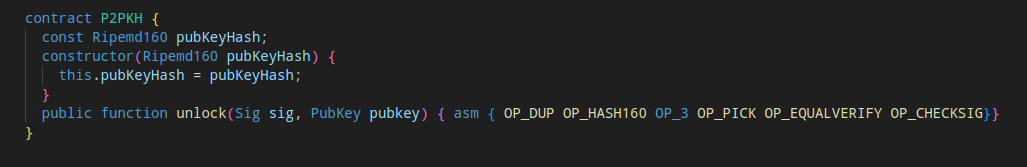
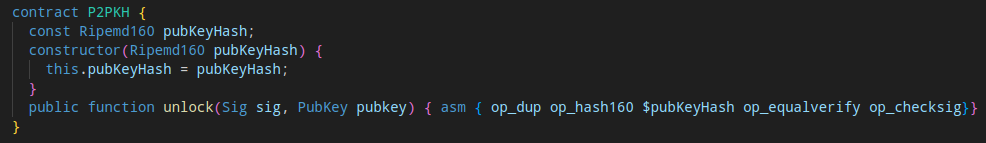
Update inline ASM page.

Changed region(s): [[0.0, 0.4196, 1.0, 0.8112], [0.0304, 0.1678, 0.3347, 0.4196], [0.0, 0.028, 0.1521, 0.1399]]

diff --git a/docs/advanced/inline-asm.md b/docs/advanced/inline-asm.md
@@ -4,25 +4,14 @@ sidebar_position: 6
 
 # How To Override Methods Compiled Code
 
-In some rare cases you might want to use low level Bitcoin script to write a smart contracts method. This is usually done for optimization of the scrip size.
+In some rare cases you might want to use low level Bitcoin script to write a smart contracts method. This is often done for optimization of the scrip size.
 To achieve this currently, you have to edit the transpiled `.scrypt` files under your projects artifacts directory.
 
-To make this easy and automated we have written a script that does this for you. 
+To make this easy and automated we have written some code, that automatically does this for you. 
 
 Suppose you have an sCrypt project with the file `src/contracts/p2pkh.ts`, which contains a regular P2PKH smart contract:
 
 ```ts
-import {
-    assert,
-    hash160,
-    method,
-    prop,
-    PubKey,
-    PubKeyHash,
-    Sig,
-    SmartContract,
-} from 'scrypt-ts'
-
 export class P2PKH extends SmartContract {
     @prop()
     readonly pubKeyHash: PubKeyHash
@@ -45,54 +34,33 @@ export class P2PKH extends SmartContract {
 
 For some reason you are not happy with the default bitcoin script produced by the sCrypt compiler and would like to substitute the `unlock` functions script with something your wrote manually.
 
-Let's create a directory named `optimizations` in the root of the project and clone the download the needed substitution script inside it:
+If you created the project using the [sCrypt CLI](https://www.npmjs.com/package/scrypt-cli) with the `--asm` option enabled, you will have a directory named `.asm/` in the root of the project.
 
-```ts
-mkdir optimizations
-cd optimizations && wget wget https://raw.githubusercontent.com/sCrypt-Inc/scrypt-ts-lib/master/optimizations/apply_asm.js
-```
-
-Now, inside the `optimizations` directory, we also create a file named `asm.json`. Inside of it we define the substitutions we want to perform:
+Now, inside the `.asm` directory, you will find a file named `asm.json`. Inside of it we can define the substitutions we want to perform:
 
 ```json
 {
-  "files": [
-    {
-      "path": "artifacts/src/contracts/p2pkh.scrypt",
-      "substitutions": [
-        {
-          "function": "unlock",
-          "asm": "OP_DUP OP_HASH160 OP_3 OP_PICK OP_EQUALVERIFY OP_CHECKSIG"
-        }
-      ]
-    }
-  ]
+  "P2PKH": {
+    "unlock": "op_dup op_hash160 $pubKeyHash op_equalverify op_checksig"
+  }
 }
 ```
 
-We can observe, that the file declares a single substitution for the `unlock` method. Under the `asm` key is the actual script, encoded in ASM format. We can define multiple substations for multiple files if we would like to.
+We can observe, that we declared a single ASM substitution for the `unlock` method. We could define multiple substations for multiple methods, if we would like to.
 
-Now we have everything to automatically execute the ASM substitution. We can execute it manually like so:
-
-```sh
-node optimizations/apply_asm.js
-```
-
-After execution the intermediary `.scrypt` file of our smart contract will look like this:
-
-![](../../static/img/asm.png)
-
-
-Because it is crucial to run `apply_asm.js` after each project build. To make this process more convenient, we can modify the build script in `package.json`:
+Now, after every project build the ASM script substitution will automatically trigger. In case it doesn't, check if your `package.json` defines the following two scripts:
 
 ```json
 "scripts": {
-    "build": "tsc && npm run apply-optim",
-    "apply-optim": "node optimizations/apply_asm.js",
+    "build": "tsc && npm run apply-asm",
+    "apply-asm": "node .asm/apply_asm.js",
     ...
 ```
 
-Now, the script optimizations will be applied after every single build.
+We can verify, that the ASM script substitutions get applied by taking a quick look at the `.scrypt` file(s), which get produced during the build. In our case it should look something like the following: 
+
+![](../../static/img/asm.png)
+
 
 :::note
 Please bear in mind that modifying the contract's script code may cause inconsistencies between the on-chain and local execution (methods TS code) behavior. Once you modify the Bitcoin script, it is your responsibility to keep the two versions functionally equivalent.
